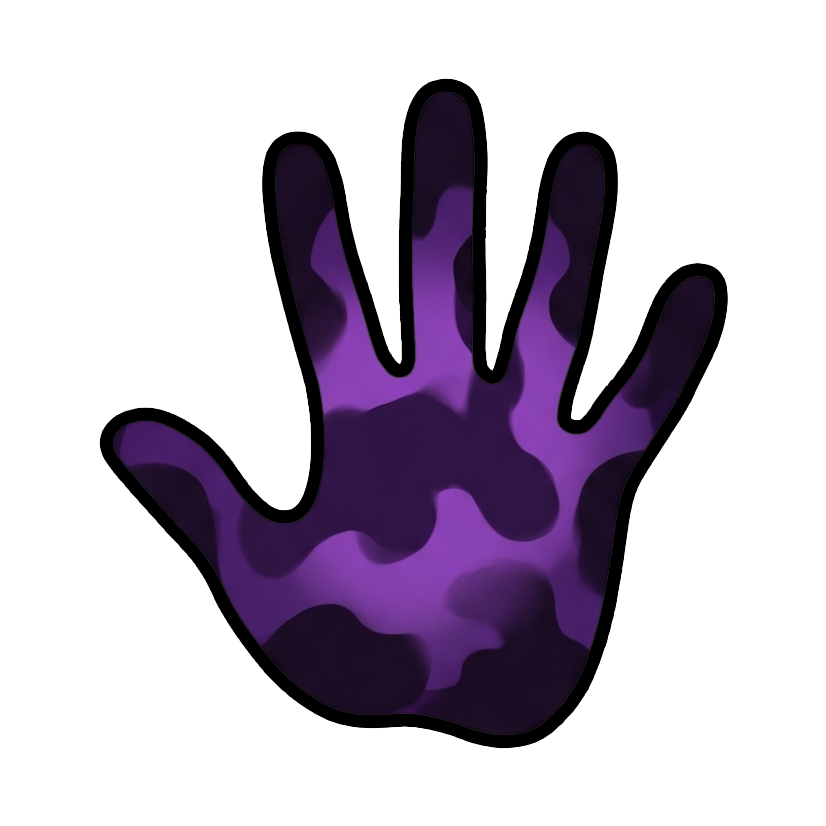
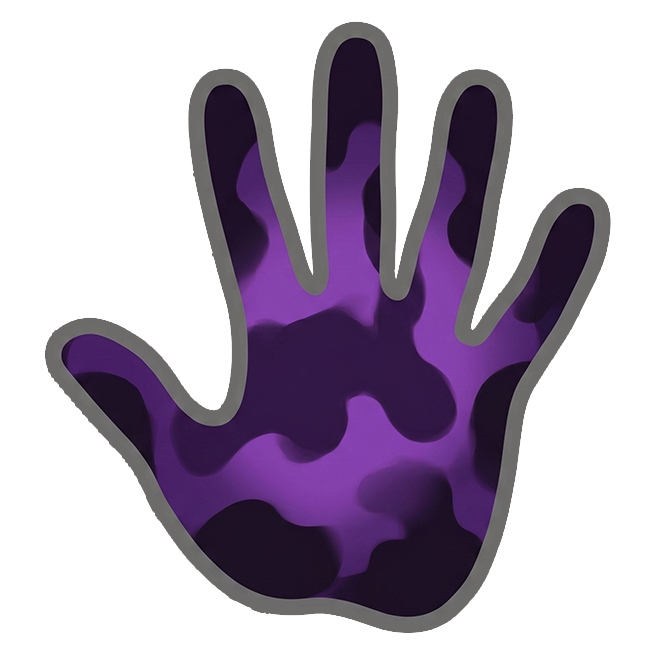
fix naming

Changed region(s): [[0.0611, 0.0305, 0.9466, 0.9771]]

diff --git a/Cards/HuaguMianzhang.cs b/Cards/HuaguMianzhang.cs
@@ -22,7 +22,7 @@ public sealed class HuaguMianzhang : ModCardTemplate
 {
 	protected override IEnumerable<DynamicVar> CanonicalVars =>
 	[
-		new DamageVar(12m, ValueProp.Move),
+		new DamageVar(15m, ValueProp.Move),
 	];
 
 	protected override IEnumerable<IHoverTip> AdditionalHoverTips =>
@@ -34,7 +34,7 @@ public sealed class HuaguMianzhang : ModCardTemplate
 		PortraitPath: "res://images/cards/HuaguMianzhang.png");
 
 	public HuaguMianzhang()
-		: base(2, CardType.Attack, CardRarity.Rare, TargetType.AnyEnemy)
+		: base(3, CardType.Attack, CardRarity.Rare, TargetType.AnyEnemy)
 	{
 	}
 
@@ -66,6 +66,6 @@ public sealed class HuaguMianzhang : ModCardTemplate
 
 	protected override void OnUpgrade()
 	{
-		DynamicVars.Damage.UpgradeValueBy(4m);
+		DynamicVars.Damage.UpgradeValueBy(5m);
 	}
 }

diff --git a/Powers/HuaguMianzhangPower.cs b/Powers/HuaguMianzhangPower.cs
@@ -51,7 +51,5 @@ public sealed class HuaguMianzhangPower : ModPowerTemplate
 			Amount,
 			Applier,
 			null);
-
-		await PowerCmd.Remove(this);
 	}
 }